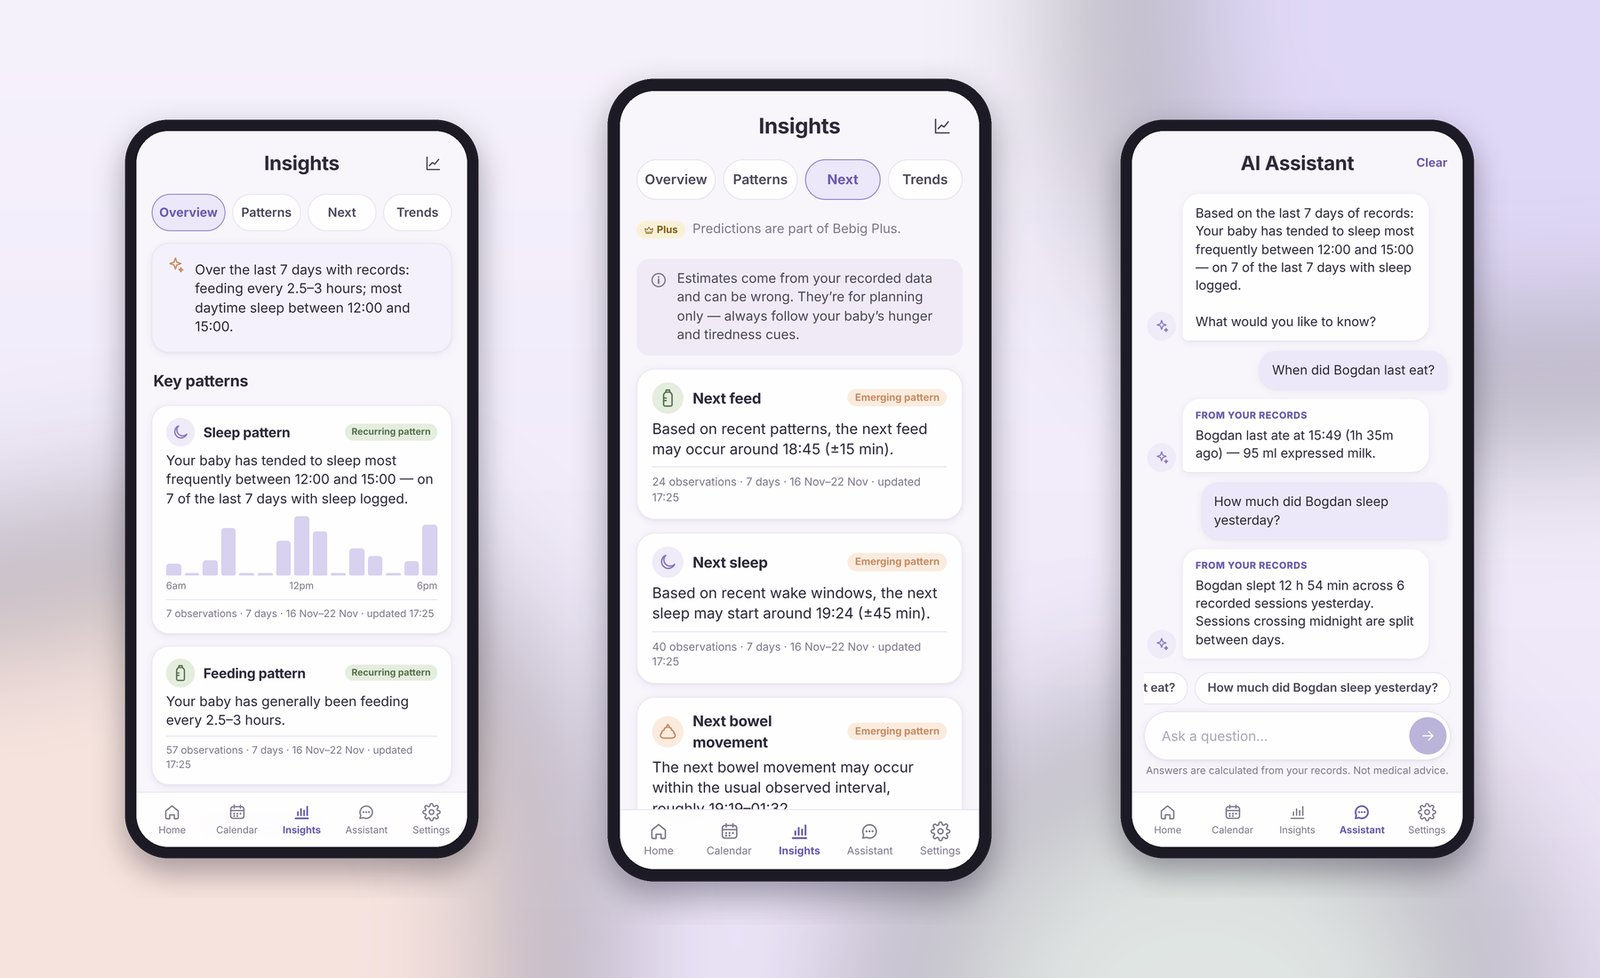
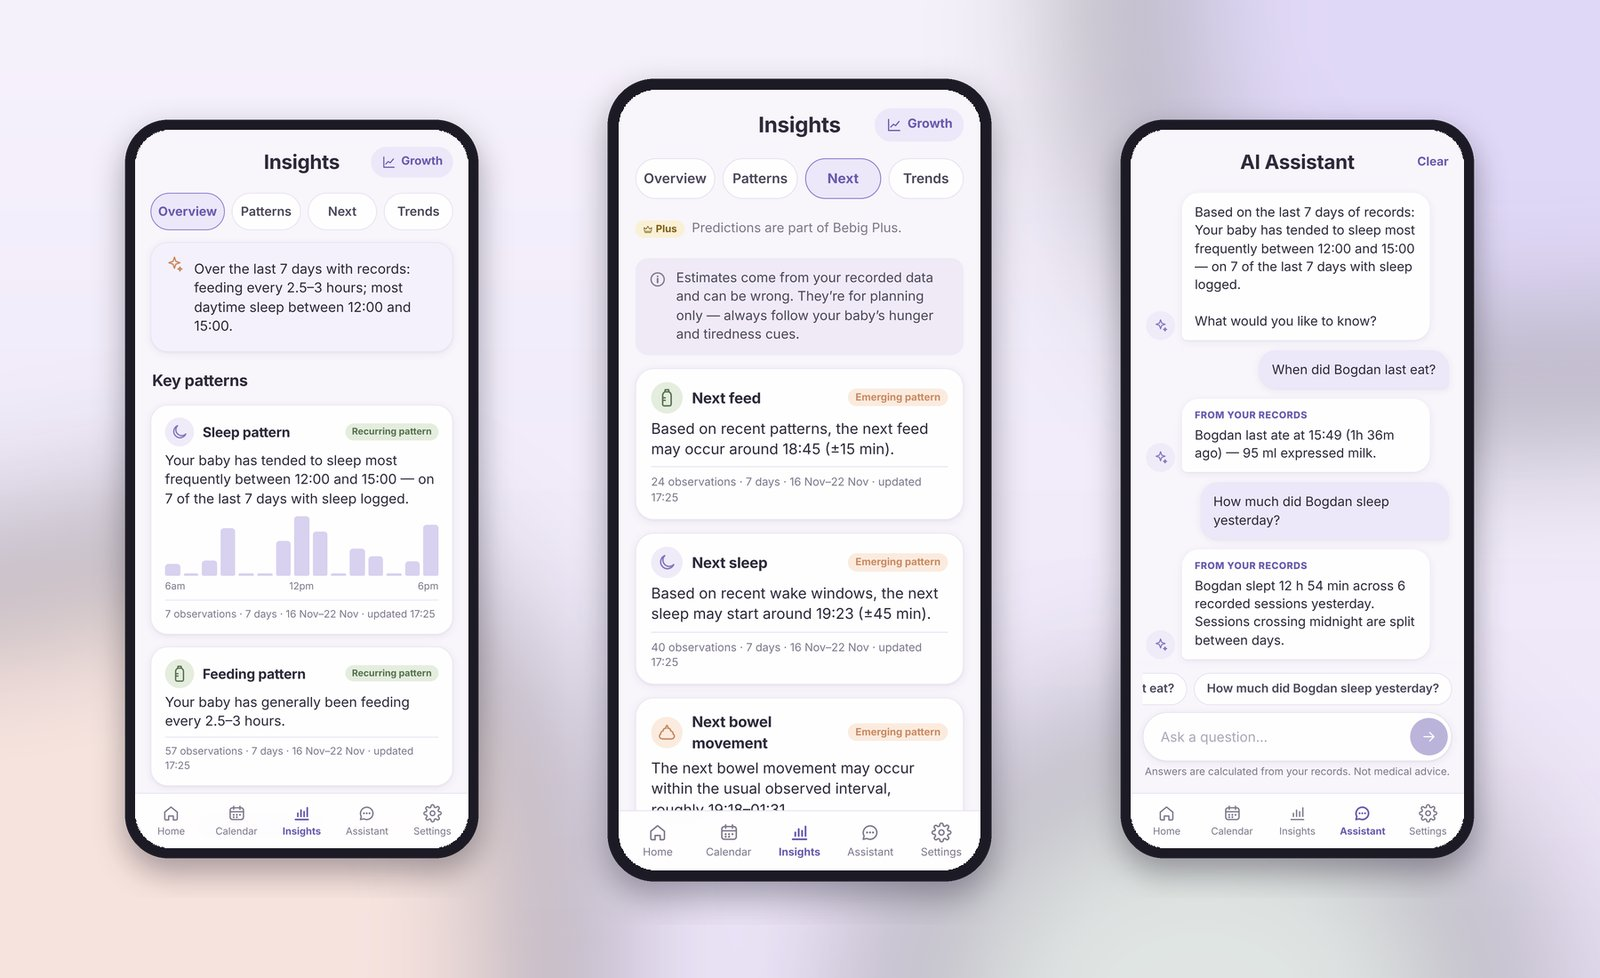
Update Bebig screenshots with latest app screens (#7)
Replace hero, logging and insights images (same layout and size) and bump cache-buster.

Claude-Session: https://claude.ai/code/session_016wVeUtjFhpyBE32dL8Zhf2

diff --git a/projects.html b/projects.html
@@ -70,7 +70,7 @@
 <a href="https://bebig.mvriba.com/" style="display: inline-flex; align-items: center; min-height: 48px; padding: 0 24px; border-radius: 999px; border: 1.5px solid #F2EFE9; color: #F2EFE9; font-weight: 600; text-decoration: none">Features and pricing ↗</a>
 </div>
 </div>
-<img loading="lazy" decoding="async" src="/assets/img/bebig-hero.jpg?v=20261122" alt="Bebig app: home screen with feed, nappy and sleep tiles, an insights screen and an AI assistant" style="width: 100%; aspect-ratio: 16 / 9; object-fit: cover; display: block">
+<img loading="lazy" decoding="async" src="/assets/img/bebig-hero.jpg?v=20261122b" alt="Bebig app: home screen with feed, nappy and sleep tiles, an insights screen and an AI assistant" style="width: 100%; aspect-ratio: 16 / 9; object-fit: cover; display: block">
 <div style="padding: 40px 48px; display: grid; grid-template-columns: repeat(auto-fit, minmax(230px, 1fr)); gap: 16px">
 <div style="padding: 24px; border-radius: 20px; border: 1px solid #2A2E35"><h3 style="margin: 0 0 6px; font-family: 'Bricolage Grotesque', sans-serif; font-size: 19px; font-weight: 700">Logging in seconds</h3><p style="margin: 0; color: #A8A39A; font-size: 15px">Quick feed, poo and sleep logging, with timers for each breast and for naps.</p></div>
 <div style="padding: 24px; border-radius: 20px; border: 1px solid #2A2E35"><h3 style="margin: 0 0 6px; font-family: 'Bricolage Grotesque', sans-serif; font-size: 19px; font-weight: 700">Patterns and predictions</h3><p style="margin: 0; color: #A8A39A; font-size: 15px">It spots recurring feeding and sleep patterns and estimates what's next, always showing how much data each estimate is based on.</p></div>
@@ -78,8 +78,8 @@
 <div style="padding: 24px; border-radius: 20px; border: 1px solid #2A2E35"><h3 style="margin: 0 0 6px; font-family: 'Bricolage Grotesque', sans-serif; font-size: 19px; font-weight: 700">Growth tracking</h3><p style="margin: 0; color: #A8A39A; font-size: 15px">WHO growth charts and a calendar history of every day.</p></div>
 </div>
 <div style="padding: 0 48px 48px; display: grid; grid-template-columns: repeat(auto-fit, minmax(320px, 1fr)); gap: 16px">
-<img loading="lazy" decoding="async" src="/assets/img/bebig-logging.jpg?v=20261122" alt="Bebig logging screens for feeds, nappies and sleep" style="width: 100%; aspect-ratio: 18 / 11; object-fit: cover; border-radius: 20px; display: block">
-<img loading="lazy" decoding="async" src="/assets/img/bebig-insights.jpg?v=20261122" alt="Bebig insights, predictions and AI assistant screens" style="width: 100%; aspect-ratio: 18 / 11; object-fit: cover; border-radius: 20px; display: block">
+<img loading="lazy" decoding="async" src="/assets/img/bebig-logging.jpg?v=20261122b" alt="Bebig logging screens for feeds, nappies and sleep" style="width: 100%; aspect-ratio: 18 / 11; object-fit: cover; border-radius: 20px; display: block">
+<img loading="lazy" decoding="async" src="/assets/img/bebig-insights.jpg?v=20261122b" alt="Bebig insights, predictions and AI assistant screens" style="width: 100%; aspect-ratio: 18 / 11; object-fit: cover; border-radius: 20px; display: block">
 </div>
 </article>
 </section>

diff --git a/index.html b/index.html
@@ -102,7 +102,7 @@
 </div>
 <div style="display: grid; grid-template-columns: repeat(auto-fit, minmax(340px, 1fr)); gap: 16px">
 <div style="display: flex; flex-direction: column; border-radius: 24px; background: #171A1F; color: #F2EFE9; overflow: hidden">
-<img loading="lazy" decoding="async" src="/assets/img/bebig-hero.jpg?v=20261122" alt="Bebig app screens showing the home, insights and AI assistant views" style="width: 100%; aspect-ratio: 16 / 9; object-fit: cover; display: block">
+<img loading="lazy" decoding="async" src="/assets/img/bebig-hero.jpg?v=20261122b" alt="Bebig app screens showing the home, insights and AI assistant views" style="width: 100%; aspect-ratio: 16 / 9; object-fit: cover; display: block">
 <div style="padding: 28px 32px 32px; display: flex; flex-direction: column; gap: 8px">
 <span style="align-self: flex-start; padding: 4px 12px; border-radius: 999px; border: 1px solid #F5A524; color: #F5A524; font-size: 13px; font-weight: 600">AI · Parenting</span>
 <h3 style="margin: 0; font-family: 'Bricolage Grotesque', sans-serif; font-size: 30px; font-weight: 700"><a href="https://bebig.app/" style="color: #F2EFE9; text-decoration: none">Bebig</a></h3>

diff --git a/bebig/index.html b/bebig/index.html
@@ -12,7 +12,7 @@
 <meta property="og:title" content="Bebig — learn your baby’s rhythm, one tap at a time">
 <meta property="og:description" content="Bebig is a newborn tracker for feeds, sleep, nappies and growth. Free core logging, shared with your partner, with Bebig Plus for predictions and an AI assistant.">
 <meta property="og:url" content="https://bebig.mvriba.com/">
-<meta property="og:image" content="https://mvriba.com/assets/img/bebig-hero.jpg?v=20261122">
+<meta property="og:image" content="https://mvriba.com/assets/img/bebig-hero.jpg?v=20261122b">
 <meta name="twitter:card" content="summary_large_image">
 <link rel="icon" type="image/svg+xml" href="/bebig/icon.svg">
 <script>window.va = window.va || function () { (window.vaq = window.vaq || []).push(arguments); };</script>
